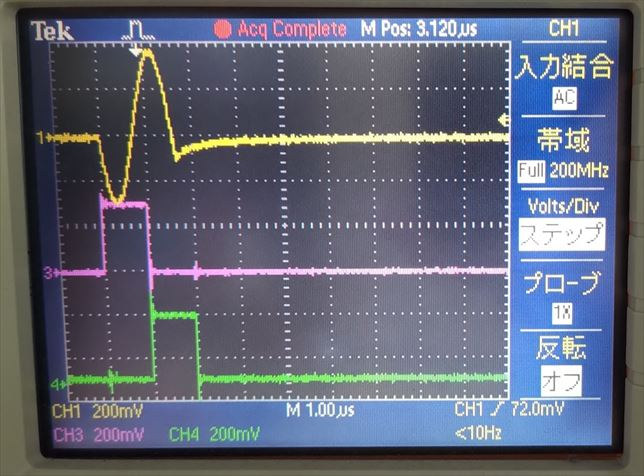
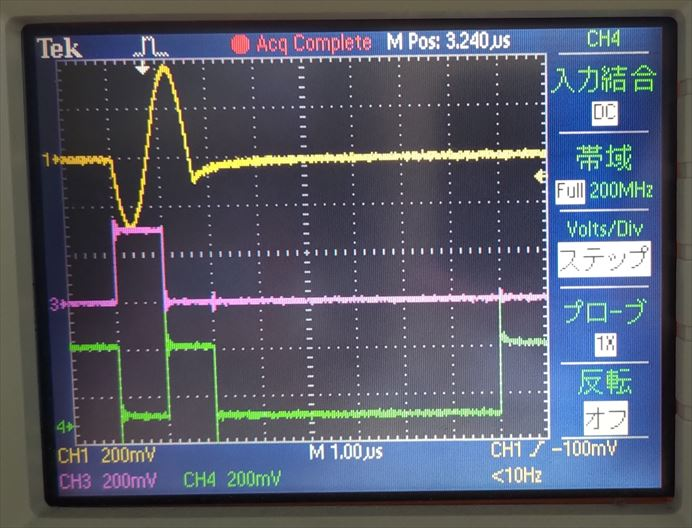
make it possible to set a default output value for a digital output module

diff --git a/RftoolClient/digitaloutctrl.py b/RftoolClient/digitaloutctrl.py
@@ -70,6 +70,31 @@ class DigitalOutCtrl:
             self.__reg_access.write(addr, 0)
 
 
+    def set_default_output_data(self, bits, *dout_id_list):
+        """引数で指定したディジタル出力モジュールにデフォルトの出力データ設定する.
+
+        | このメソッドで指定した出力値は, ディジタル出力モジュールが動作していないときに常に出力される.
+        | initialize メソッドでディジタルモジュールを初期化してもこの値は変わらない.
+        | このメソッドを複数回呼び出すと, ディジタル出力モジュールは最後の呼び出しで設定した値を出力する.
+
+        Args:
+            bits (int) : デフォルトで出力されるビットデータ.  0 ~ 7 ビット目がデジタル出力ポートの電圧値に対応する.  0 が Lo で 1 が Hi.
+            dout_id_list (DigitalOut): 出力パターンを設定するディジタル出力モジュールの ID の リスト
+        """
+        try:
+            self.__validate_dout_id(*dout_id_list)
+            if not isinstance(bits, int):
+                raise ValueError("'bits' must be an integer.")
+        except Exception as e:
+            cmn.log_error(e, self.__logger)
+            raise
+
+        for dout_id in dout_id_list:
+            base_addr = DigitalOutputDataListRegs.Addr.dout(dout_id)
+            addr = base_addr + DigitalOutputDataListRegs.Offset.DEFAULT_BIT_PATTERN
+            self.__reg_access.write(addr, bits)
+
+
     def enable_start_trigger(self, *dout_id_list):
         """引数で指定したディジタル出力モジュールのスタートトリガを有効化する.
 

diff --git a/examples/stim_gen_send/digital_out_x16_test.py b/examples/stim_gen_send/digital_out_x16_test.py
@@ -85,10 +85,19 @@ def set_digital_out_data(digital_out_ctrl):
         digital_out_ctrl.set_output_data(dout_data_list, dout_id)
 
 
+def set_default_digital_out_data(digital_out_ctrl):
+    # デフォルトのディジタル出力データの設定
+    for dout_id in dout_list:
+        bit_pattern = dout_id + 2
+        digital_out_ctrl.set_default_output_data(bit_pattern, dout_id)
+
+
 def setup_digital_output_modules(digital_out_ctrl):
     """ディジタル出力に必要な設定を行う"""
     # ディジタル出力モジュール初期化
     digital_out_ctrl.initialize(*dout_list)
+    # デフォルトのディジタル出力データの設定
+    set_default_digital_out_data(digital_out_ctrl)
     # ディジタル出力データの設定
     set_digital_out_data(digital_out_ctrl)
     # Stimulus Generator からのスタートトリガを受け付けるように設定.

diff --git a/examples/stim_gen_send/stim_gen_send.py b/examples/stim_gen_send/stim_gen_send.py
@@ -181,6 +181,8 @@ def setup_digital_output_modules(digital_out_ctrl):
     """ディジタル出力に必要な設定を行う"""
     # ディジタル出力モジュール初期化
     digital_out_ctrl.initialize(*dout_list)
+    # デフォルトのディジタル出力データの設定
+    digital_out_ctrl.set_default_output_data(0x36, *dout_list)
     # ディジタル出力データの設定
     set_digital_out_data(digital_out_ctrl)
     # Stimulus Generator からのスタートトリガを受け付けるように設定.

diff --git a/StimGen/memorymap.py b/StimGen/memorymap.py
@@ -253,3 +253,4 @@ class DigitalOutputDataListRegs(object):
 
         BIT_PATTERN = 0x0
         OUTPUT_TIME = 0x4
+        DEFAULT_BIT_PATTERN = 0x1000

diff --git a/docs/stg/digital_output.md b/docs/stg/digital_output.md
@@ -12,20 +12,26 @@
 
 ![システムオーバービュー](images/stg_system_overview.png)
 
-## 2. 出力ポート
+## 2. ディジタル出力モジュールの状態
+
+ディジタル出力モジュールには `Idle` と `Active` の 2 つの状態があります．
+初期状態は `Idle` で，モジュールの動作が開始されると `Active` 状態となり設定された出力値を順番に出力します．
+`Active` 状態でディジタル値の出力が終了すると `Idle` 状態に戻ります．
+
+![システムオーバービュー](images/state.png)
+
+## 3. 出力ポート
 
 ディジタル出力モジュール 0, 1 の出力値は ZCU111 の PMOD 0, 1 の電圧値として出力されます．
 PMOD の各ポートには P0 ~ P7 の番号が以下の図のように割り当てられ，出力値の 0 ~ 7 ビット目の 0/1 が P0 ~ P7 の Lo/Hi に対応します．
 
 ![システムオーバービュー](images/pmod_ports.png)
 
-**※ディジタルデータが出力されていないとき PMOD の各ポートの電圧値は Lo になります.**
-
-## 3. ディジタル出力モジュール制御用 API の詳細
+## 4. ディジタル出力モジュール制御用 API の詳細
 
 本章ではディジタル出力モジュールの操作に必要な Python API を手順ごとに説明します．
 
-### 3.1. 初期化
+### 4.1. 初期化
 
 ディジタル出力モジュールは，次節以降で述べる操作を行う前に必ず初期化しなければなりません．
 初期化には DigitalOutCtrl クラスの initialize メソッドを使用します．
@@ -52,9 +58,9 @@ with client.RftoolClient(logger) as rft:
     dout_ctrl.initialize(sg.DigitalOut.U0, sg.DigitalOut.U1)
 ```
 
-### 3.2. ディジタル出力データの設定
+### 4.2. Active 状態の出力データの設定
 
-ディジタル出力データは，StimGen パッケージの DigitalOutputDataList クラスを用いて作成します．
+Active 状態の出力データは，StimGen パッケージの DigitalOutputDataList クラスを用いて作成します．
 同クラスの add メソッドに出力値と出力時間 (10 ns 単位) を設定します．
 出力データをディジタル出力モジュールに設定するには DigitalOutCtrl クラスの set_output_data メソッドを使用します．
 
@@ -81,7 +87,30 @@ with client.RftoolClient(logger) as rft:
 
 ![ディジタル出力例](images/dout_result.png)
 
-### 3.3. スタートトリガの有効化
+### 4.3. Idle 状態の出力データの設定
+
+Idle 状態の出力データ (以下デフォルト出力値と呼ぶ) は，DigitalOutCtrl クラスの set_default_output_data メソッドで設定します．
+このメソッドを呼び出すとすぐに，引数で指定したディジタル出力モジュールのデフォルト出力値が変わります．
+STG デザインをコンフィギュレーションした直後のデフォルト出力値は 0 です．
+一度変更したデフォルト出力値は，初期化などの操作では変わらず，再度このメソッドで変更するまで保持されます．
+
+デフォルト出力値を設定するコード例を以下に示します．
+
+```
+from RftoolClient import client
+import StimGen as sg
+import common as cmn
+
+# RftoolClient オブジェクトを作成する
+with client.RftoolClient(logger) as rft:
+    
+    ### ディジタル出力モジュールの初期化 (省略) ###
+
+    # ディジタル出力モジュール 0, 1 のデフォルト出力値を 0x36 に変更する
+    dout_ctrl.set_default_output_data(0x36, sg.DigitalOut.U0, sg.DigitalOut.U1)
+```
+
+### 4.4. スタートトリガの有効化
 
 ディジタル出力モジュールは，STG の波形出力開始に合わせて動作を開始する場合，スタートトリガを有効にしなければなりません．
 スタートトリガの有効化には DigitalOutCtrl クラスの enable_start_trigger メソッドを使用します．
